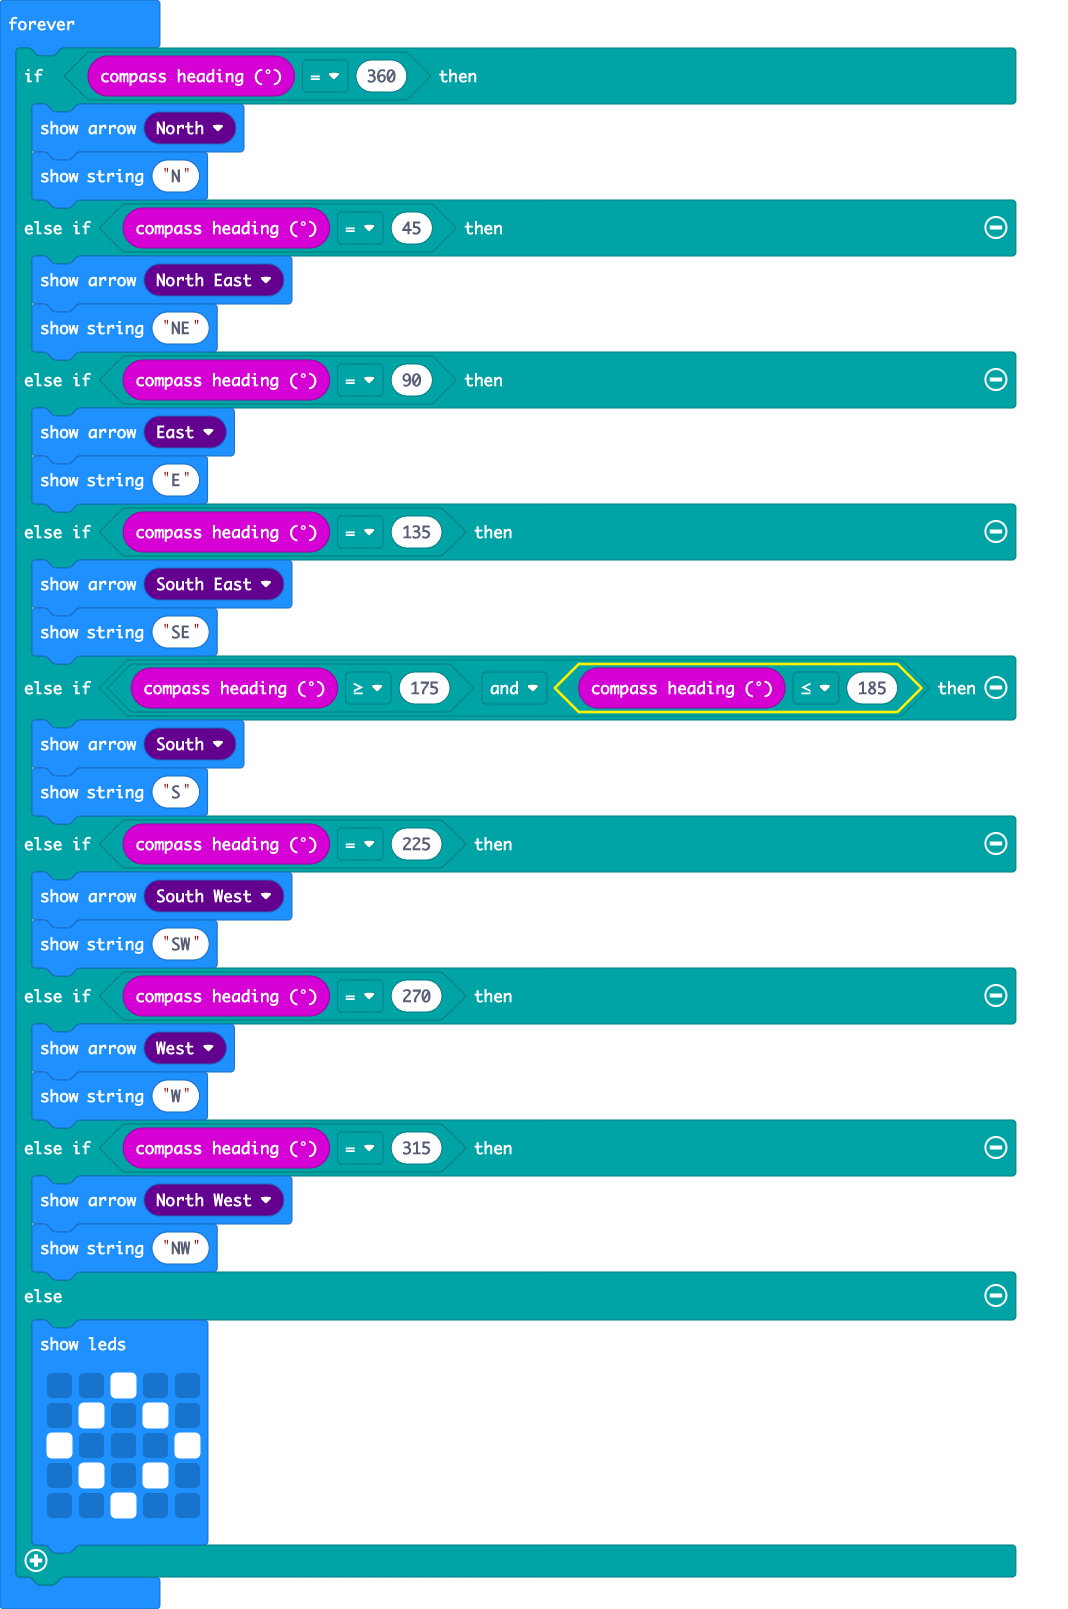
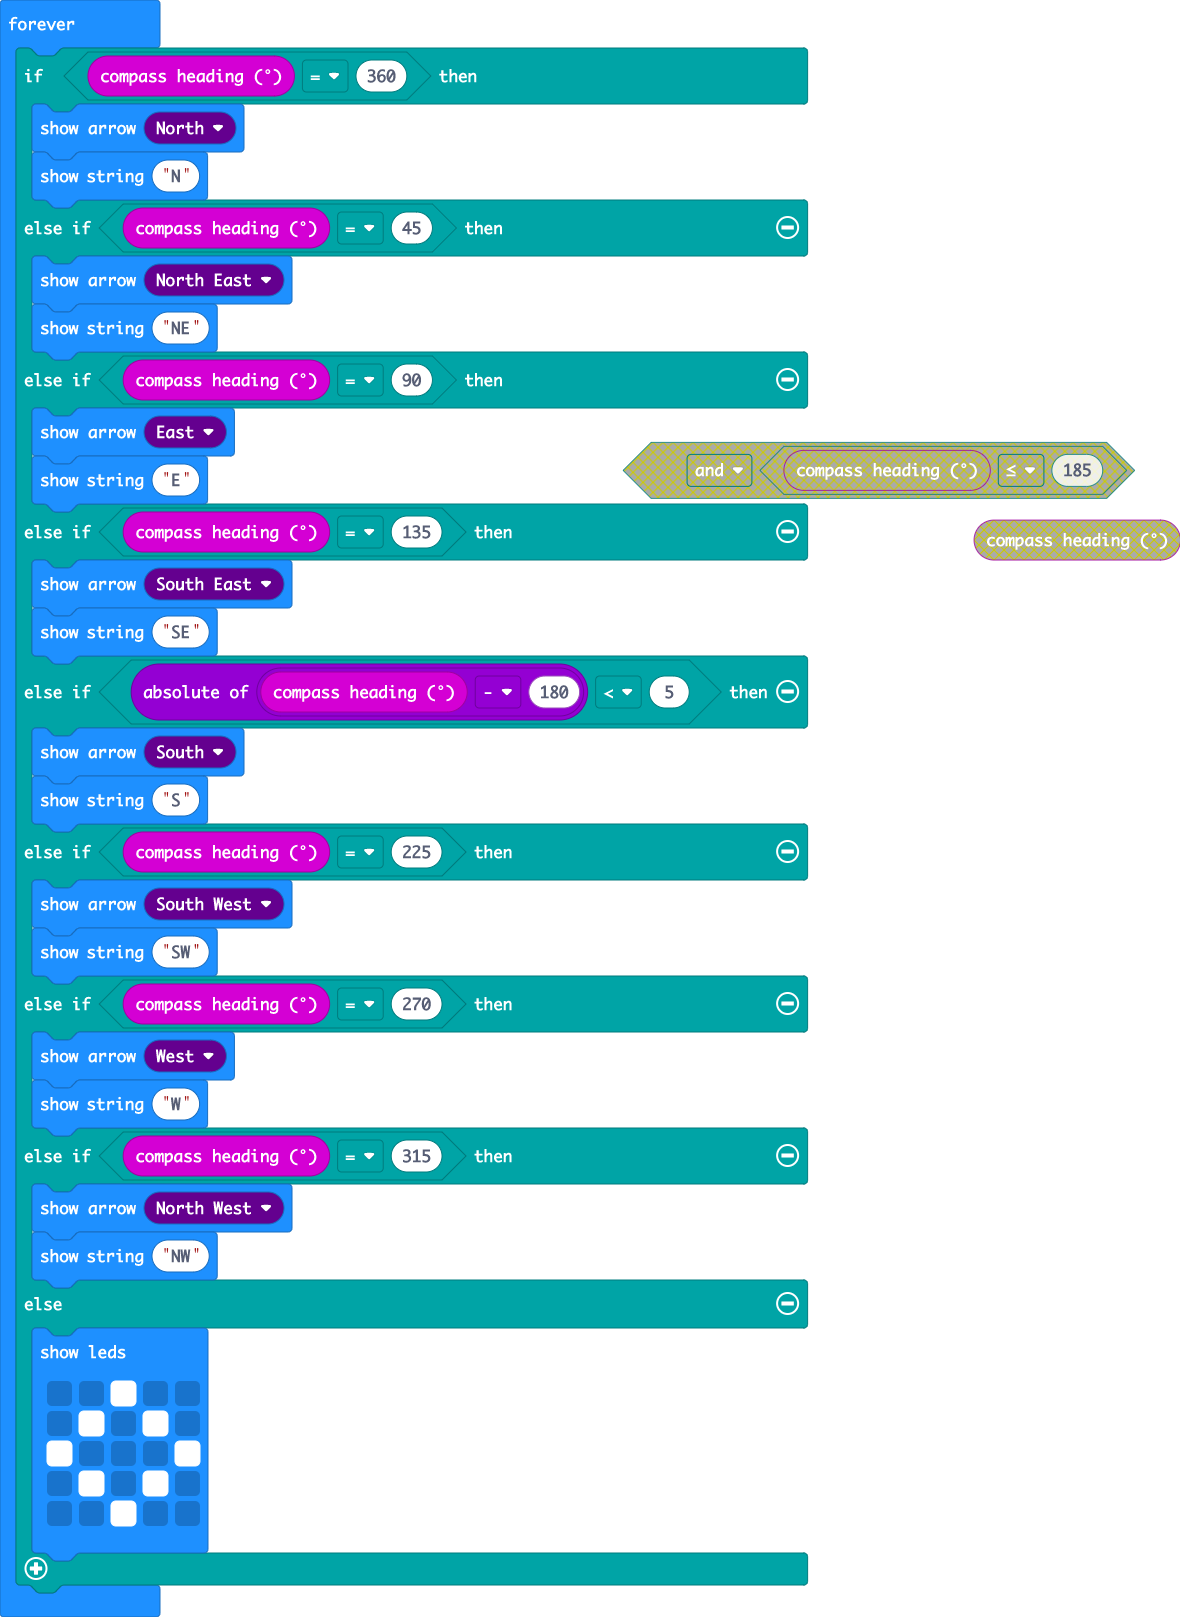
Added an alternative way to see if the compass is within tolerance.

diff --git a/main.ts b/main.ts
@@ -11,7 +11,7 @@ basic.forever(function () {
     } else if (input.compassHeading() == 135) {
         basic.showArrow(ArrowNames.SouthEast)
         basic.showString("SE")
-    } else if (input.compassHeading() >= 175 && input.compassHeading() <= 185) {
+    } else if (Math.abs(input.compassHeading() - 180) < 5) {
         basic.showArrow(ArrowNames.South)
         basic.showString("S")
     } else if (input.compassHeading() == 225) {
